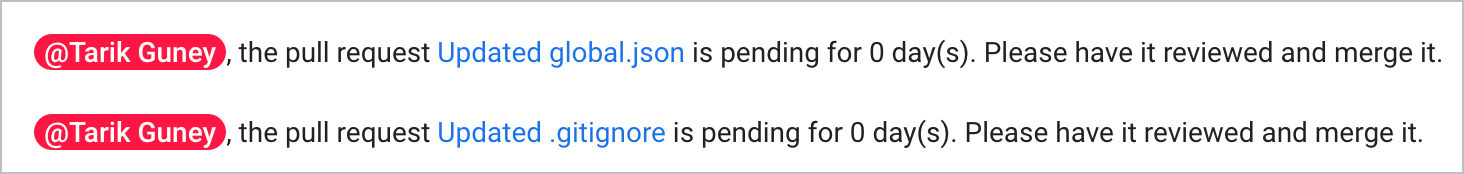
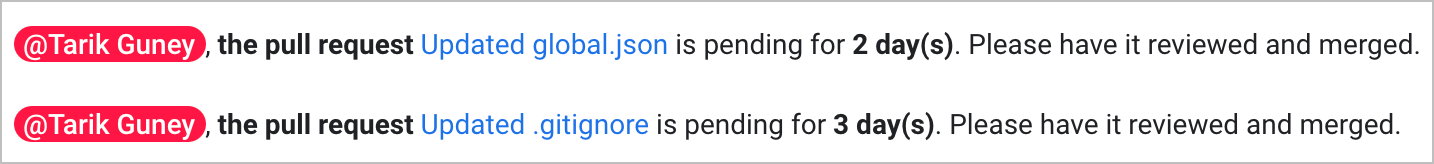
Corrected the PR message, image

Changed region(s): [[0.0, 0.1524, 1.0, 0.4268], [0.0, 0.6402, 0.9819, 0.8841]]

diff --git a/src/TarikGuney.ManagerAutomation.FunctionApp/Actors/PendingPullRequestsActor.cs b/src/TarikGuney.ManagerAutomation.FunctionApp/Actors/PendingPullRequestsActor.cs
@@ -66,8 +66,8 @@ namespace TarikGuney.ManagerAutomation.Actors
 					: $"<users/{devOpsGoogleChatUserMap!.GoogleChatUserId}>";
 
 				messages.Add(
-					$"{chatDisplayName}, the pull request <{prUrl}|{prTitle}> is pending for {pendingForDays} day(s). " +
-					$"Please have it reviewed and merge it.");
+					$"{chatDisplayName}, *the pull request* <{prUrl}|{prTitle}> is pending for *{pendingForDays} day(s)*. " +
+					$"Please have it reviewed and merged.");
 			}
 
 			Sender.Tell(new ActorResponse<IReadOnlyList<string>>(messages, true));

diff --git a/README.md b/README.md
@@ -92,11 +92,9 @@ When it is the first day of the new Sprint, the automation service will analyze 
 
 ## Pull Request Reminders
 
-**Note:** Ignore the `0 days` part. It was for testing purposes. In actual use, the number will be bigger.
-
 Reading the existing PRs from the Azure DevsOps, and sending the engineering team daily reminders to ensure the developed code gets merged into the main branch. This increases the awareness of work completion among the team. At the end of the day, it is only the merged code that actually turns into a business value.
 
-<img src="assets/screenshots/pull-request-reminders.png" alt="Pull Request Reminders Screenshot" style="zoom:80%;" />
+<img src="assets/screenshots/pull-request-reminders.png" alt="Pull Request Reminders Screenshot" style="zoom:67%;" />
 
 ## Managers-only reminders
 As an engineering manager, it is often crucial to be aware of the work's progression on time and catch the delay before becoming a big problem. There might be many reasons why work is delayed. For instance, engineering might be blocked. Regardless of the reason, if a task is taking an unreasonable amount of time, you will need to reach out and see what's going on and how you can help the team member with the progression of the work. The Manager Automation service collects this information for you -- the engineering manager -- and reports them daily in a private Google Chat room.
